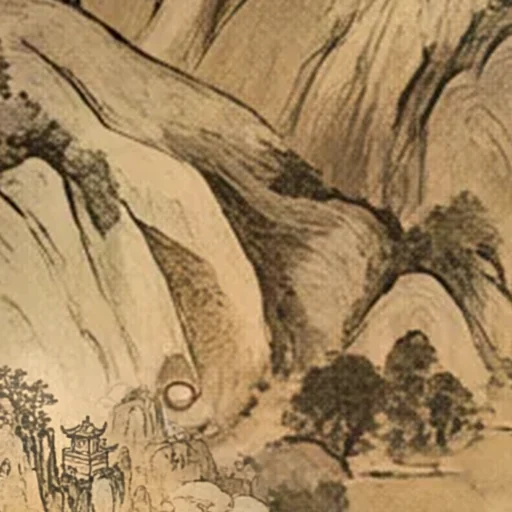
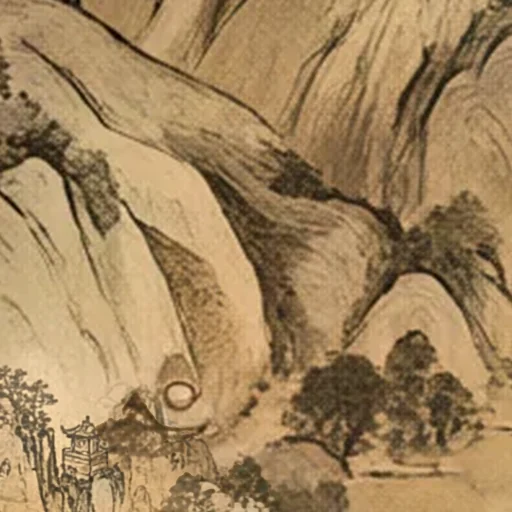
Bản đồ: khi ghép vẽ bù giữ cây của bản đồ (cụm cây phía trước phủ lên chân nơi đó, nét gốc đậm hơn thì thắng), tắt được bằng GIU_CAY=0; ghi quy trình vẽ địa điểm vào CLAUDE.md

Changed region(s): [[0.1562, 0.75, 0.5312, 1.0], [0.0, 0.9688, 0.0312, 1.0]]

diff --git a/tools/quan-ve.py b/tools/quan-ve.py
@@ -376,7 +376,7 @@ def loang(mk_vung, seed=5, rong=110):
     a = np.clip(t + 0.5, 0, 1); a = a * a * (3 - 2 * a)
     return ndi.gaussian_filter(a, 1.5)
 
-def ghep_mem(cu, mo, mk, rong=110):
+def ghep_mem(cu, mo, mk, rong=110, giu_cay=None):
     """cu: nền gốc, mo: kết quả (float HxWx3), mk: mặt nạ vẽ bù (HxW 0..1). Khớp màu cả vùng, rồi trong dải chuyển tiếp kéo dần mảng màu lớn
     (nhoè 40 đ.ả) của bản vẽ về mảng màu của nền -> chuyển tông mượt, nét giữ nguyên; cuối cùng ghép theo mép loang mực."""
     m3 = mk[..., None]
@@ -395,8 +395,23 @@ def ghep_mem(cu, mo, mk, rong=110):
     ab = ab * (1 - vr) + tran * vr
     ab = ab * (1 - 0.18 * vr)  # bớt bão hoà thêm ở rìa
     L[..., 1:] = ab; mo = np.clip(skc.lab2rgb(L), 0, 1) * 255
+    if giu_cay is None: giu_cay = os.environ.get('GIU_CAY', '1') != '0'  # tuỳ nơi: GIU_CAY=0 để tắt (vd khi nét gốc lấp ló qua mây / thân nơi đó)
+    if not giu_cay:
+        a3 = a[..., None]; return np.clip(cu * (1 - a3) + mo * a3, 0, 255), a
+    # giữ cây cối của bản đồ: (1) cụm cây dày ở phía trước (dưới) chân nơi đó thì bản gốc phủ lên, (2) trong dải chuyển tiếp nét gốc đậm hơn thì thắng
+    lum = lambda x: x @ np.array([0.299, 0.587, 0.114], np.float32)
+    Lg = lum(cu); muc = np.clip((ndi.gaussian_filter(Lg, 25) - Lg) / 35, 0, 1)        # nét mực của bản gốc (cây, mép núi)
+    day = ndi.gaussian_filter(muc, 14); cum = np.clip((day - 0.18) / 0.15, 0, 1)    # cụm nét dày = cụm cây
+    ys = np.nonzero(mk > 0.5)[0]; y0, y1 = (np.percentile(ys, 55), ys.max()) if ys.size else (0, 1)
+    duoi = np.clip((np.arange(mk.shape[0], dtype=np.float32) - y0) / max(1.0, (y1 - y0) * 0.5), 0, 1)[:, None]  # nửa dưới vùng vẽ = phía trước
+    truoc = ndi.gaussian_filter(cum * duoi * np.clip(1 - sau * 0.6, 0, 1), 4)
+    a = a * (1 - truoc)
     a3 = a[..., None]
-    return np.clip(cu * (1 - a3) + mo * a3, 0, 255), a
+    out = cu * (1 - a3) + mo * a3
+    dai = np.clip((1 - sau) * 1.4, 0, 1) * (a > 0.01)                                  # dải chuyển tiếp
+    Lo = lum(out); thang = np.clip((Lo - Lg) / 25, 0, 1) * muc * dai                  # gốc đậm hơn ở chỗ có nét -> giữ nét gốc
+    out = out * (1 - thang[..., None]) + cu * thang[..., None]
+    return np.clip(out, 0, 255), a
 
 def ghep_k(q, k, anh):
     d = D(q); v = json.load(open(d + f'ra/v{k}.json')); lam = Image.open(d + 'lam.png').convert('RGB')

diff --git a/CLAUDE.md b/CLAUDE.md
@@ -68,4 +68,4 @@ Người dùng không phải lập trình viên: trả lời ngắn, ít thuật
 - **Địa điểm = lục giác lớn** 1/7/19/37 ô (`hinhLG`, `lgCo` ở core2/33 `growPlaces`): tông môn 7/19/37, thành 7/19, trấn 1/7. Không đặt lên núi / ô `O_CHE`; tông môn lõi 7 ô phải trống, vòng ngoài lấn núi ≤1/3 (vùng toàn núi thì nới dần). Bài `dat_thanh_tran`, `ten_co_dinh` (tên chỉ ngẫu nhiên khi tạo thế giới, kiếp sau giữ nguyên).
 - **Bố cục cố định là DỮ LIỆU**: `DD_BOCUC` (core2/03e, sinh bằng `node tools/dd-luu.js`), `ddBoCuc` đọc từ đó — đừng sinh lại bằng máy ngẫu nhiên (lệch so với ảnh đã vẽ). core2/91 phải nạp TRƯỚC ui/ (thế giới đầu tiên tạo lúc nạp trang). Đổi luật đặt nơi thì phải chạy lại dd-luu và vẽ lại các quận đã vẽ.
 - **Bản đồ chia ô ảnh** (`O_ANH` core2/03d, `oAnh` ở ui/05-gfx.js): ô 512 ở 3 mức 0,75/1,5/3 điểm ảnh mỗi đơn vị (src/assets/ban-do/o/<mức>/<x>-<y>.webp), phóng tới đâu tải tới đó, chưa tải thì mượn mức thô; nơi trong `O_ANH.ve` không chồng ảnh rời. Phóng tối đa `ZMAX`=3, ngưỡng hiện chữ/icon theo `ZREF`=1.5. Bài giao diện `o_anh_ban_do`.
-- **Vẽ địa điểm theo quận**: `tools/quan-ve.py` (chuan-bi → vẽ mẫu tông/thành/9 nơi nhỏ → dan → từng khung 1536 sửa cả khung (Qwen 2.1 sửa ảnh, KHÔNG dùng mặt nạ mềm: mô hình chép y) → nắn khớp `nan_khop` + đường cắt ít khác biệt → xuat). Chạy qua comfy-mcp (fetch_outputs lỗi: tải bằng curl `/view`). Đã vẽ quận 5. Thử cách mới: chỉ 1 khung trước.
+- **Vẽ địa điểm vào bản đồ** (`tools/quan-ve.py`, quy trình đã duyệt): `ve <q> <k> <loại>` cắt khung 1536 ở mức 2 từ chính bản đồ, khoanh vùng nơi đó (lõi chỉ làm nhoè) → `lpref` Klein 9B + LanPaint vẽ bù kèm ảnh mẫu (dd/thu-moi/ref-1/2) → Qwen 2.1 + LanPaint vẽ lại 75% bắt đầu từ bản Klein nhưng ảnh mẫu là bản đồ gốc (cho Qwen nhìn bản Klein thì nó chép y) → `ghepk`: khớp màu, mép loang mực (`loang`), màu + bớt vàng dần ra rìa, giữ cây gốc (`GIU_CAY=0` để tắt, tuỳ nơi) → cắt ô ảnh. Cách cũ (vẽ mẫu rời rồi dán, sửa cả khung) bị chê. Chạy qua comfy-mcp (fetch_outputs lỗi: tải bằng curl `/view`). Đã vẽ: tông môn quận 5. Cách mới: thử 1 khung trước.
